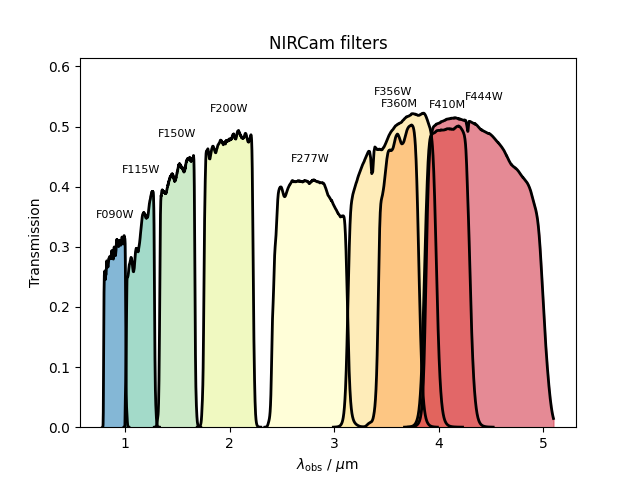
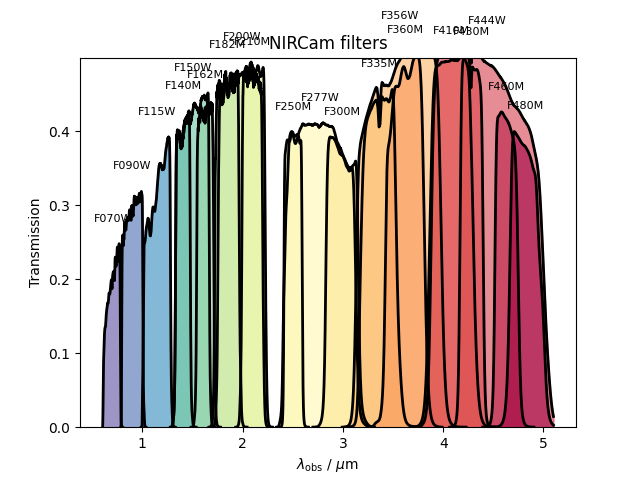
Included MICADO instrument

diff --git a/galfind/Instrument.py b/galfind/Instrument.py
@@ -14,6 +14,7 @@ import astropy.units as u
 import json
 from pathlib import Path
 from astroquery.svo_fps import SvoFps
+import matplotlib as mpl
 import matplotlib.pyplot as plt
 from typing import NoReturn, Union
 
@@ -278,19 +279,33 @@ class Instrument:
             raise(Exception(f"Instrument name: {name} does not exist in 'Instrument.from_name()'!"))
 
     def plot_filter_profiles(self, ax, wav_units = u.um, from_SVO = True, \
-            cmap_name = "Spectral_r", annotate = True, show = True, save = False) -> NoReturn:
-        cmap = plt.get_cmap(cmap_name, len(self))
-        for i, band in enumerate(self):
-            band.plot_filter_profile(ax, from_SVO = from_SVO, color = cmap[i])
+            cmap_name = "turbo_r", annotate = True, show = True, save = False) -> NoReturn:
+        colours = plt.get_cmap(cmap_name)(np.linspace(0, 1, len(self)))
+        for i, (band, colour) in enumerate(zip(self, colours)):
+            band.plot_filter_profile(ax, from_SVO = from_SVO, colour = colour)
         if annotate:
             ax.set_title(f"{self.name} filters")
             ax.set_xlabel(r"$\lambda_{\mathrm{obs}}$ / " + funcs.unit_labels_dict[wav_units])
             ax.set_ylabel("Transmission")
             ax.set_ylim(0., np.max([trans for trans in band.trans for band in self]) + 0.1)
         if save:
-            plt.savefig(f"{self.name}_filter_profiles.png")
+            save_path = f"{self.name}_filter_profiles.png"
+            plt.savefig(save_path)
+            galfind_logger.info(f"Saved to {save_path}")
         if show:
             plt.show()
+    
+    def plot_z_wav_rest_tracks(self, z_arr, wav_lims = [1_250., 3_000.] * u.AA, cmap_name = "Spectral_r", save = True):
+        fig, ax = plt.subplots()
+        colours = plt.get_cmap(cmap_name)(np.linspace(0, 1, len(self)))
+        [band.plot_z_wav_rest_track(ax, z_arr, wav_units = wav_lims.unit, colour = colour) for band, colour in zip(self, colours)]
+        ax.set_xlabel(r"Redshift, $z$")
+        ax.set_ylabel(r"$\lambda_{\mathrm{rest}}~/~$%s" % wav_lims.unit)
+        ax.set_xlim(np.min(z_arr), np.max(z_arr))
+        ax.set_ylim(*wav_lims.value)
+        if save:
+            plt.savefig(f"{self.name}_z_wav_rest_{str(wav_lims)}.png")
+
 
 class NIRCam(Instrument):
     
@@ -327,6 +342,53 @@ class WFC3_IR(Instrument):
     
     def new_instrument(self, excl_bands = []):
         return WFC3_IR(excl_bands)
+
+elt_micado_filters = [
+    #"Br-gamma", 
+    "FeII", 
+    #"H2_1-0S1", 
+    #"H-cont", 
+    "H", 
+    #"He-I", 
+    #"H-long", 
+    #"H-short", 
+    #"I-long", 
+    "J", 
+    #"J-long", 
+    #"J-short", 
+    #"K-cont", 
+    #"K-long",
+    #"K-mid", 
+    "Ks2", 
+    "Ks", 
+    #"K-short", 
+    #"Pa-beta", 
+    "Spec_HK", 
+    "Spec_IJ", 
+    "xH1", 
+    "xH2", 
+    "xI1", 
+    "xI2", 
+    "xJ1", 
+    "xJ2", 
+    "xK1", 
+    "xK2", 
+    "xY1", 
+    "xY2", 
+    "Y"
+]
+
+class MICADO(Instrument):
+
+    def __init__(self, excl_bands = []):
+        from spextra import Passband
+        bands = [Filter.from_spextra(Passband(f"elt/{self.__class__.__name__.lower()}/{filt}")) for filt in elt_micado_filters]
+        # sort by central wavelength
+        bands.sort(key = lambda band: band.WavelengthCen.to(u.AA).value)
+        super().__init__("MICADO", bands, excl_bands, "ELT")
+
+    def new_instrument(self, excl_bands = []):
+        return MICADO(excl_bands)
     
 class Combined_Instrument(Instrument):
     

diff --git a/galfind/Filter.py b/galfind/Filter.py
@@ -62,12 +62,33 @@ class Filter:
         output_prop["WavelengthLower50"] = output_prop["WavelengthCen"] - output_prop["FWHM"] / 2.
         return cls(facility, instrument, band, wav, trans, output_prop)
     
+    @classmethod
+    def from_spextra(cls, passband):
+        facility = passband.filter_name.split("/")[0].upper()
+        instrument = passband.filter_name.split("/")[1].upper()
+        band = passband.basename
+        wav = np.array(passband.model.points[0]) * u.AA
+        trans = np.array(passband.model.lookup_table)
+        # for output_property
+        _wav = [__wav for __wav, _trans in zip(wav.value, trans) if _trans > 0.5]
+        output_prop = {"WavelengthCen": np.mean(_wav) * u.AA, \
+            "WavelengthLower50": np.min(_wav) * u.AA, "WavelengthUpper50": np.max(_wav) * u.AA}
+        return cls(facility, instrument, band, wav, trans, output_prop)
+
     #def crop_wav_range(self, lower_throughput, upper_throughput):
     #    self.wavs = self.wavs[self.trans > 1e-1]
     
-    def plot_filter_profile(self, ax, wav_units = u.um, from_SVO = True, color = "black"):
+    def plot_filter_profile(self, ax, wav_units = u.um, from_SVO = True, colour = "black"):
         wavs = funcs.convert_wav_units(self.wav, wav_units).value
-        ax.fill_between(wavs, 0., self.trans, color = color, alpha = 0.6)
+        ax.fill_between(wavs, 0., self.trans, color = colour, alpha = 0.6)
         ax.plot(wavs, self.trans, color = "black", lw = 2) #cmap[np.where(self.bands == band)])
         ax.text(funcs.convert_wav_units(self.WavelengthCen, wav_units).value, \
             np.max(self.trans) + 0.03, self.band_name, ha = "center", fontsize = 8)
+        
+    def plot_z_wav_rest_track(self, ax, z_arr, wav_units = u.AA, outline = True, colour = "black", alpha = 0.5):
+        l1_track = self.WavelengthLower50.to(wav_units).value / (1. + z_arr)
+        u1_track = self.WavelengthUpper50.to(wav_units).value / (1. + z_arr)
+        ax.fill_between(z_arr, l1_track, u1_track, color = colour, alpha = alpha)
+        if outline:
+            ax.plot(z_arr, l1_track, color = "black")
+            ax.plot(z_arr, u1_track, color = "black")

diff --git a/examples/plot_band_z_wav_coverage.py b/examples/plot_band_z_wav_coverage.py
@@ -1,0 +1,32 @@
+#!/usr/bin/env python3
+# -*- coding: utf-8 -*-
+"""
+Created on Sun Oct 29 13:54:02 2023
+
+@author: u92876da
+"""
+import numpy as np
+import matplotlib.pyplot as plt
+import astropy.units as u
+
+from galfind import NIRCam, WFC3_IR, ACS_WFC
+from galfind import config
+from galfind.Instrument import MICADO
+
+plt.style.use(f"{config['DEFAULT']['GALFIND_DIR']}/galfind_style.mplstyle")
+
+def main():
+    wav_units = u.um
+    excl_bands = ["Spec_IJ", "Spec_HK", "FeII", "xI1", "xI2", "xY1", "xY2", \
+        "xJ1", "xJ2", "xH1", "xH2", "xK1", "xK2", "Ks"]
+    instrument = NIRCam() #MICADO(excl_bands = excl_bands)
+    #instrument = NIRCam(excl_bands = excl_bands) #+ WFC3_IR() + ACS_WFC()
+    
+    #fig, ax = plt.subplots()
+    #instrument.plot_filter_profiles(ax, wav_units, save = True, show = False)
+
+    z_arr = np.linspace(2., 13.5)
+    instrument.plot_z_wav_rest_tracks(z_arr)
+
+if __name__ == "__main__":
+    main()

diff --git a/examples/plot_filterset.py b/examples/plot_filterset.py
@@ -5,17 +5,20 @@ Created on Sun Oct 29 13:54:02 2023
 
 @author: u92876da
 """
+import numpy as np
 import matplotlib.pyplot as plt
 import astropy.units as u
 
-from galfind import Instrument, NIRCam, WFC3_IR, ACS_WFC
+from galfind import NIRCam, WFC3_IR, ACS_WFC
+from galfind.Instrument import MICADO
 
 def main():
     wav_units = u.um
     plot_bands = ["F090W", "F115W", "F150W", "F200W", "F277W", "F356W", "F360M", "F410M", "F444W"]
-    excl_bands = [band_name for band_name in NIRCam().band_names if band_name not in plot_bands]
+    excl_bands = [band_name for band_name in NIRCam().band_names if band_name[-1] not in ["W", "M"]]
+    #instrument = MICADO(excl_bands = excl_bands)# + NIRCam()
     instrument = NIRCam(excl_bands = excl_bands) #+ WFC3_IR() + ACS_WFC()
-
+    
     fig, ax = plt.subplots()
     instrument.plot_filter_profiles(ax, wav_units, save = True, show = False)
 
